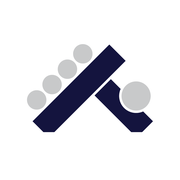
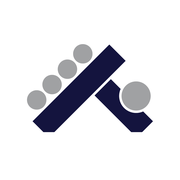
ファビコンだけ灰を濃く(200→160)

Changed region(s): [[0.1389, 0.2222, 0.5278, 0.6111], [0.6667, 0.4444, 0.8611, 0.6111]]

diff --git a/index.html b/index.html
@@ -11,11 +11,11 @@
 <meta property="og:image:width" content="1200">
 <meta property="og:image:height" content="630">
 <meta name="twitter:card" content="summary_large_image">
-<link rel="icon" href="icons/favicon.svg?v=2" type="image/svg+xml">
-<link rel="icon" href="icons/favicon-32.png?v=2" sizes="32x32" type="image/png">
-<link rel="icon" href="icons/favicon-48.png?v=2" sizes="48x48" type="image/png">
-<link rel="icon" href="icons/favicon-16.png?v=2" sizes="16x16" type="image/png">
-<link rel="apple-touch-icon" href="icons/apple-touch-icon.png?v=2">
+<link rel="icon" href="icons/favicon.svg?v=3" type="image/svg+xml">
+<link rel="icon" href="icons/favicon-32.png?v=3" sizes="32x32" type="image/png">
+<link rel="icon" href="icons/favicon-48.png?v=3" sizes="48x48" type="image/png">
+<link rel="icon" href="icons/favicon-16.png?v=3" sizes="16x16" type="image/png">
+<link rel="apple-touch-icon" href="icons/apple-touch-icon.png?v=3">
 <meta name="description" content="男のロマンを詰め込んだ、変形する、トラックボール一体型、自作キーボード「小人キー」">
 <meta property="og:description" content="男のロマンを詰め込んだ、変形する、トラックボール一体型、自作キーボード「小人キー」">
 <meta name="claude:viewport-fit-sides" content="cover">
